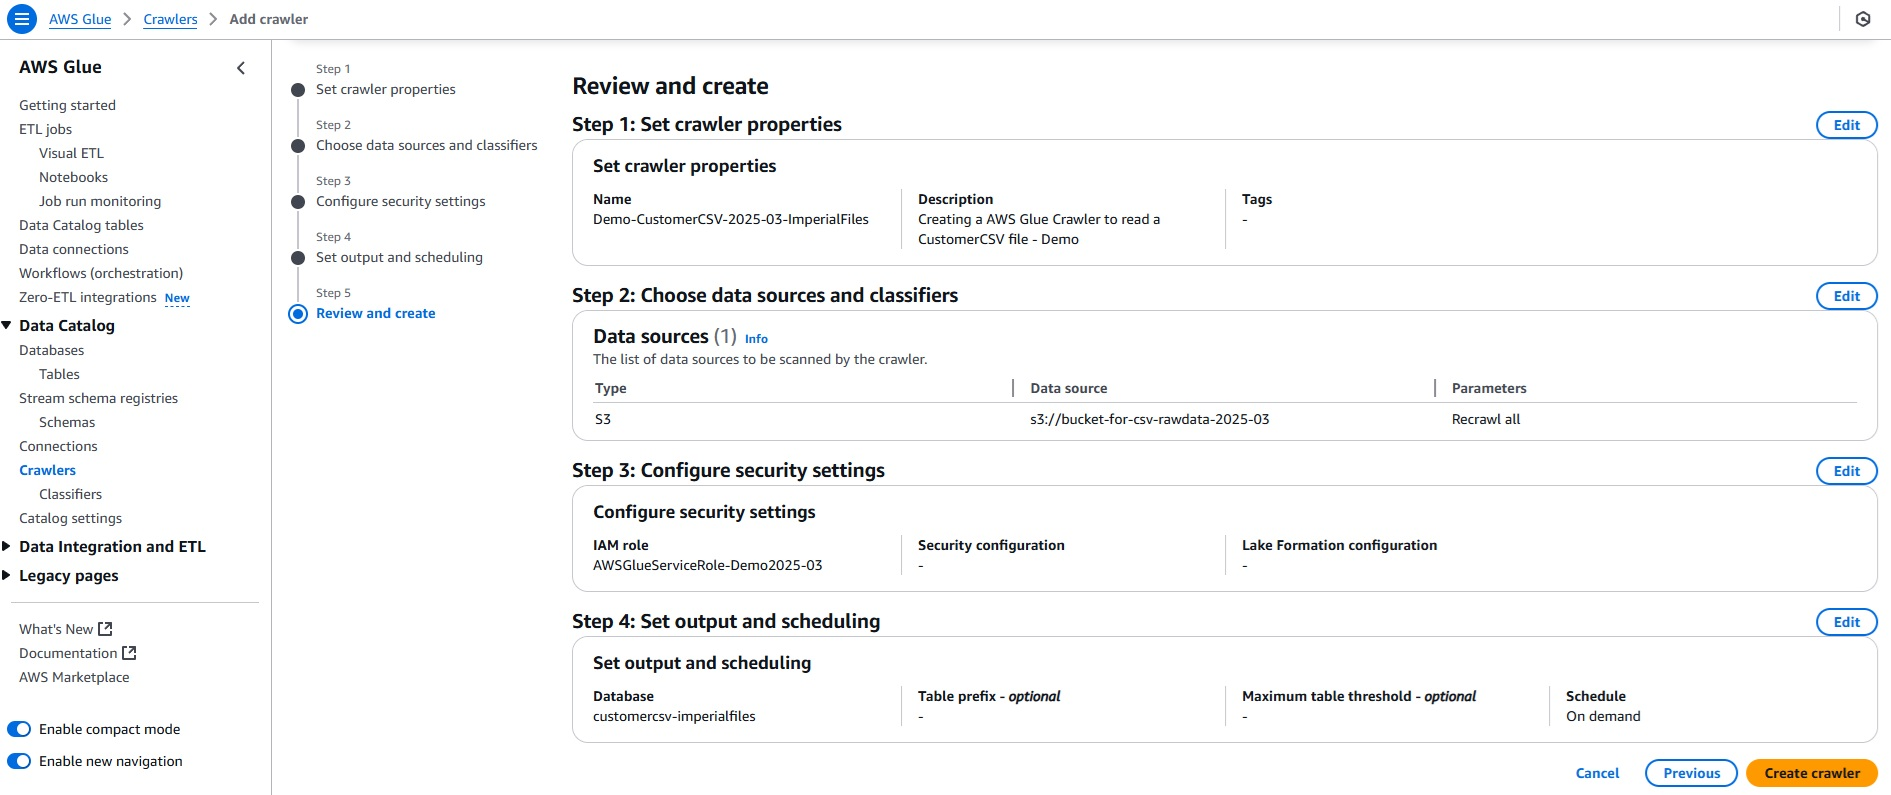
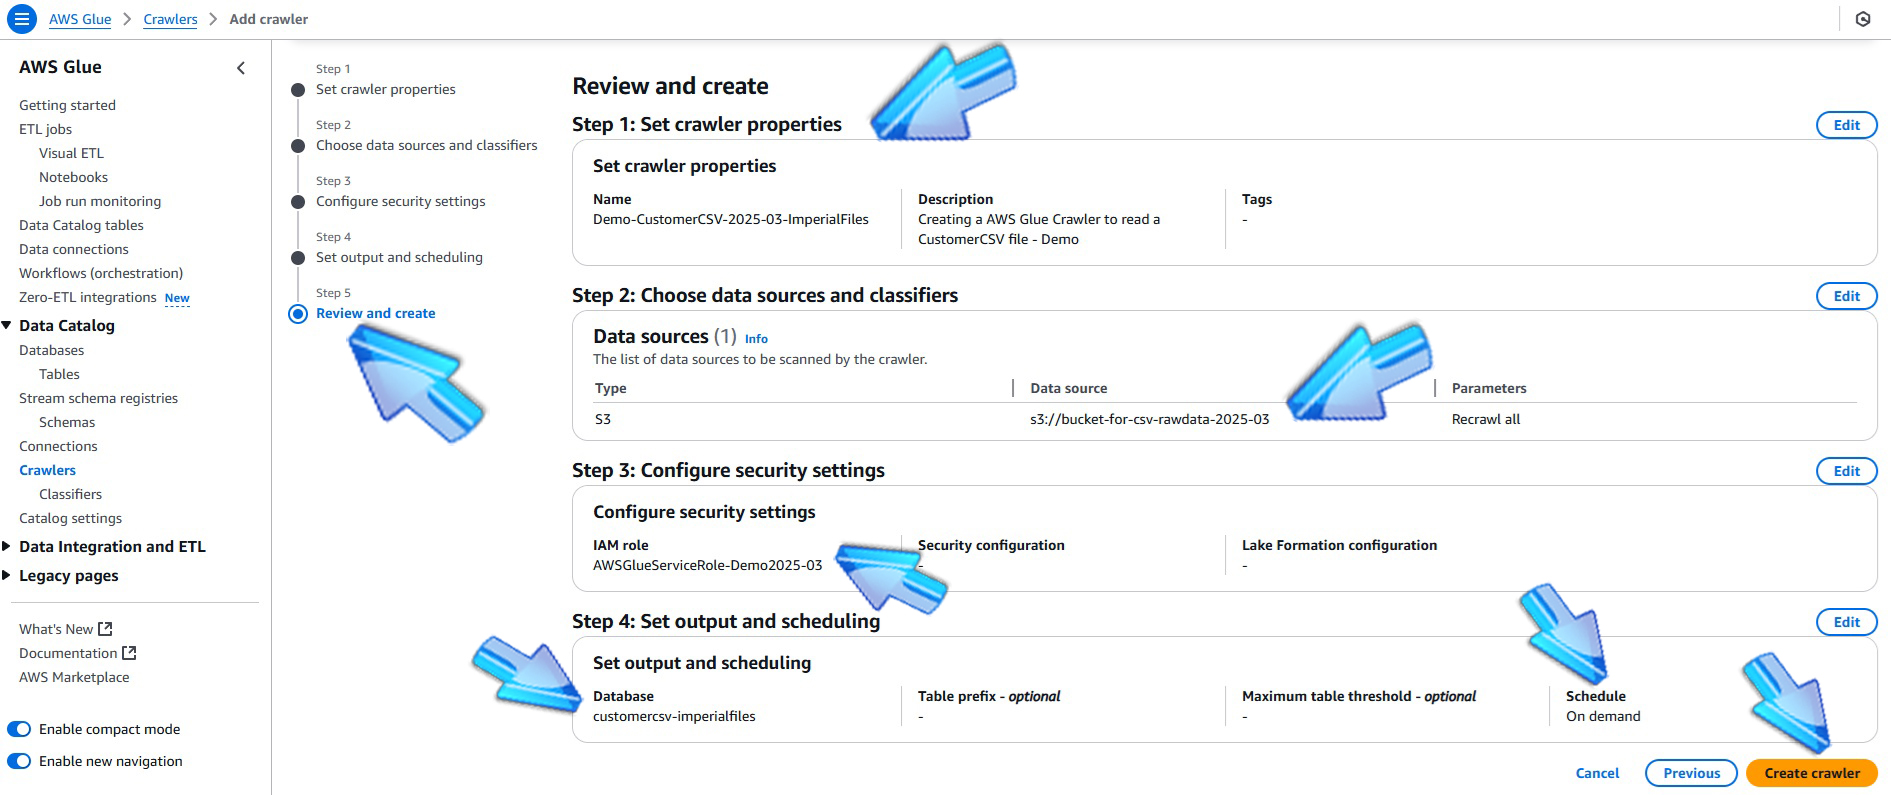
Update AWS Glue documentation with final screen image for crawler creation

diff --git a/thisisthelab.md b/thisisthelab.md
@@ -179,5 +179,15 @@
 ![AWS Glue Crawler Database Created](./images/21a-AWSGlueCrawlerDataBaseCreated.jpg)
 ![AWS Glue Crawler Database Target](./images/22a-AWSGlueCrawlerDataBaseTargetChoosed.jpg)
 
+# 3.5 - AWS Glue - Create Crawler
+
+###### ![Brazil](https://github.com/Acheroniano/flag-icon/blob/master/png/16/country-4x3/br.png "Brazil") 
+###### Finalmente revise as configurações e clique em *CREATE CRAWLER*.
+
+###### ![United States](https://github.com/Acheroniano/flag-icon/blob/master/png/16/country-4x3/us.png "United States") 
+###### Finally review the settings and click on *CREATE CRAWLER*.
+
+![AWS Glue Create Crawler](./images/23a-AWSGlueCrawlerFinalScreen.jpg)
+
 
 
